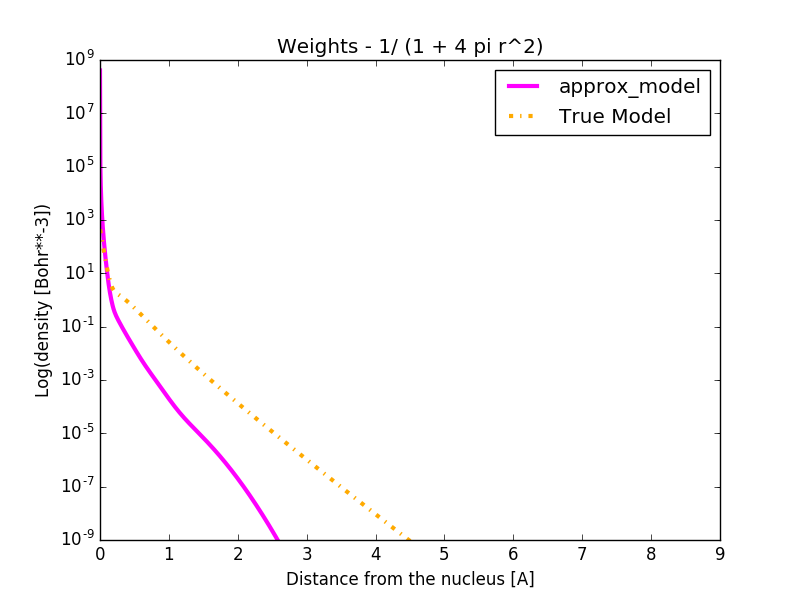
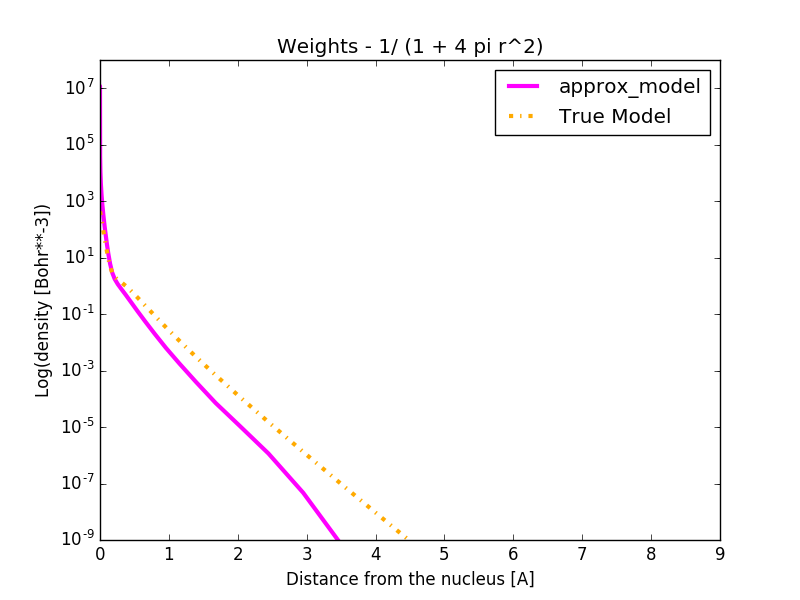
Starting New Lagerange

diff --git a/fitting/fit/positive_mbis.py b/fitting/fit/positive_mbis.py
@@ -1,0 +1,131 @@
+from __future__ import division
+import numpy as np
+
+
+def get_objective_function( electron_dens, grid_obj, model, weights):
+    log_ratio_of_models = np.log(electron_dens / np.ma.asarray(model))**2.
+    return grid_obj.integrate(electron_dens * weights * log_ratio_of_models)
+
+
+def integrate_model_with_four_pi(grid_obj, model):
+    return grid_obj.integrate(model)
+
+
+def goodness_of_fit_grid_squared(electron_dens, grid_obj, model):
+    return grid_obj.integrate(np.abs(model - np.ravel(electron_dens))) / (4 * np.pi)
+
+
+def goodness_of_fit(electron_dens, grid_obj, model):
+    return grid_obj.integrate(np.abs(model - np.ravel(electron_dens)) / grid_obj.radii**2.) / (
+    4 * np.pi)
+
+
+def lagrange_multiplier(electron_dens, model, radial_grid, atomic_number, weights=1.):
+    ratio = np.ma.asarray(electron_dens) / np.ma.asarray(model)
+    log_ratio = np.log(ratio)
+    integrand = weights * electron_dens * log_ratio
+    integrand = np.ma.filled(integrand, 0.)
+    return 2. * radial_grid.integrate(integrand) / atomic_number
+
+
+def get_normalized_gaussian_density(coeff_arr, exp_arr, radii):
+    radii = np.reshape(radii, (len(radii), 1.))
+    exponential = np.exp(-exp_arr * np.power(radii, 2.))
+    assert exponential.shape == (len(radii), len(exp_arr))
+
+    normalized_exps = (exp_arr / np.pi) ** (3. / 2.)
+    normalized_coeffs = coeff_arr * normalized_exps
+
+    assert normalized_coeffs.ndim == 1.
+    normalized_gaussian_density = np.dot(exponential, normalized_coeffs)
+    index_where_zero_occurs = np.where(normalized_gaussian_density == 0.)
+    if len(index_where_zero_occurs[0]) != 0:
+        normalized_gaussian_density[index_where_zero_occurs] = \
+            normalized_gaussian_density[index_where_zero_occurs[0][0] - 1]
+    return normalized_gaussian_density
+
+def update_coeffs(coeff_arr, exp_arr,  electron_dens,radial_obj,atomic_number, weights=1):
+    model = get_normalized_gaussian_density(coeff_arr, exp_arr, radial_obj.radii)
+    lagrange = lagrange_multiplier(electron_dens, model, radial_obj, atomic_number, weights=weights)
+    print(lagrange)
+    masked_ed = np.ma.asarray(electron_dens)
+    ratio = masked_ed / model
+    log_ratio = np.log(ratio)
+    pre_integrand = log_ratio * ratio * masked_ed
+    pre_integrand = np.ma.filled(pre_integrand, 0.)
+    new_coeff = coeff_arr.copy()
+    for i, c in enumerate(coeff_arr):
+        post_inte = pre_integrand * np.ma.asarray(np.exp(-exp_arr[i] * radial_obj.radii**2.))
+        new_coeff[i] *= 2. * radial_obj.integrate(post_inte * weights / model)
+        new_coeff[i] *= (exp_arr[i] / np.pi)**(3. / 2.) / lagrange
+
+    print(get_objective_function(electron_dens, radial_obj, model, weights), np.sum(new_coeff))
+    return new_coeff
+
+
+def optimize_using_slsqp(parameters):
+    from scipy.optimize import minimize
+    def constraint(x, *args):
+        leng = len(x) // 2
+        return np.sum(x[0:leng]) - self.atomic_number
+
+    cons = (  # {'type':'eq','fun':integration_constraint},
+        {'type': 'eq', 'fun': constraint})
+    bounds = np.array([(0.0, np.inf) for x in range(0, len(parameters))], dtype=np.float64)
+    f_min_slsqp = minimize(get_objective_function(), x0=parameters, method="SLSQP",
+                           bounds=bounds, constraints=cons,
+                           jac=False)
+
+    parameters = f_min_slsqp['x']
+    print(f_min_slsqp)
+    return parameters
+
+if __name__ == "__main__":
+    ATOMIC_NUMBER = 9
+    ELEMENT_NAME = "f"
+    USE_HORTON = False
+    USE_FILLED_VALUES_TO_ZERO = True
+    THRESHOLD_COEFF = 1e-2
+    THRESHOLD_EXPS = 40
+    import os
+
+    current_directory = os.path.dirname(os.path.abspath(__file__))[:-3]
+    file_path = current_directory + "data/examples//" + ELEMENT_NAME
+
+
+
+
+    NUMB_OF_CORE_POINTS = 400;
+    NUMB_OF_DIFFUSE_POINTS = 500
+    from fitting.density.radial_grid import Radial_Grid
+    from fitting.density.atomic_slater_density import Atomic_Density
+
+    radial_grid = Radial_Grid(ATOMIC_NUMBER, NUMB_OF_CORE_POINTS, NUMB_OF_DIFFUSE_POINTS, [50, 75, 100],
+                              filled=USE_FILLED_VALUES_TO_ZERO)
+
+
+
+
+    from fitting.density import Atomic_Density
+    atomic_density = Atomic_Density(file_path, radial_grid.radii)
+    from fitting.fit.GaussianBasisSet import GaussianTotalBasisSet
+
+    from fitting.fit.model import Fitting
+    atomic_gaussian = GaussianTotalBasisSet(ELEMENT_NAME, np.reshape(radial_grid.radii,
+                                                                    (len(radial_grid.radii), 1)), file_path)
+    weights = 1 / (np.pi * radial_grid.radii**2.) #np.exp(-0.01 * radial_grid.radii**2.)
+
+    fitting_obj = Fitting(atomic_gaussian)
+    #mbis = TotalMBIS(ELEMENT_NAME, ATOMIC_NUMBER, radial_grid, atomic_density.electron_density, weights=weights)
+
+    exps = atomic_gaussian.UGBS_s_exponents[:-3]
+    coeffs = fitting_obj.optimize_using_nnls(atomic_gaussian.create_cofactor_matrix(exps))
+    print(exps)
+    coeffs[coeffs == 0.] = 1e-6
+
+    model = get_normalized_gaussian_density(coeffs, exps, radial_grid.radii)
+    print(lagrange_multiplier(atomic_density.electron_density, model, radial_grid, ATOMIC_NUMBER))
+
+    for x in range(0, 50):
+        coeffs = update_coeffs(coeffs, exps, atomic_density.atomic_density(), radial_grid, ATOMIC_NUMBER)
+        model = get_normalized_gaussian_density(coeffs, exps, radial_grid.radii)

diff --git a/fitting/fit/mbis_total_density.py b/fitting/fit/mbis_total_density.py
@@ -15,7 +15,6 @@ class TotalMBIS(MBIS_ABC):
         assert norm_coeff_arr[0] == coeff_arr[0] * normalized_constants[0], "Instead we get %r and %r * %r" %(norm_coeff_arr[0],
                                                                                                          coeff_arr[0],
                                                                                                          normalized_constants[0])
-        assert norm_coeff_arr[5] == coeff_arr[5] * normalized_constants[5]
         return coeff_arr * normalized_constants
 
     def get_normalized_gaussian_density(self, coeff_arr, exp_arr):
@@ -281,9 +280,10 @@ class TotalMBIS(MBIS_ABC):
         bounds = np.array([(0.0, np.inf) for x in range(0, len(parameters))], dtype=np.float64)
         f_min_slsqp = minimize(self.get_obj_func_for_optimizing, x0=parameters, method="SLSQP",
                                               bounds=bounds, constraints=cons,
-                                              jac=False)
+                                              jac=False,  options={"maxiter": 100000, "disp":True})
 
         parameters = f_min_slsqp['x']
+        print(f_min_slsqp)
         return parameters
 
 
@@ -320,14 +320,14 @@ if __name__ == "__main__":
     from fitting.density import Atomic_Density
     atomic_density = Atomic_Density(file_path, radial_grid.radii)
     from fitting.fit.GaussianBasisSet import GaussianTotalBasisSet
-
+    atomic_density.electron_density /= ATOMIC_NUMBER
     from fitting.fit.model import Fitting
     atomic_gaussian = GaussianTotalBasisSet(ELEMENT_NAME, np.reshape(radial_grid.radii,
                                                                     (len(radial_grid.radii), 1)), file_path)
-    weights = 1 / (np.pi * radial_grid.radii**2.) #np.exp(-0.01 * radial_grid.radii**2.)
+    weights = None#(4. * np.pi * radial_grid.radii**1.)#1. / (1 + (4. * np.pi * radial_grid.radii ** 2.))#1. / (4. * np.pi * radial_grid.radii**0.5) #np.exp(-0.01 * radial_grid.radii**2.)
 
     fitting_obj = Fitting(atomic_gaussian)
-    mbis = TotalMBIS(ELEMENT_NAME, ATOMIC_NUMBER, radial_grid, atomic_density.electron_density, weights=weights)
+    mbis = TotalMBIS(ELEMENT_NAME, 1, radial_grid, atomic_density.electron_density, weights=weights)
 
     exps = atomic_gaussian.UGBS_s_exponents[:-3]
     coeffs = fitting_obj.optimize_using_nnls(atomic_gaussian.create_cofactor_matrix(exps))
@@ -336,12 +336,19 @@ if __name__ == "__main__":
 
     print(radial_grid.integrate(mbis.electron_density))
     print(radial_grid.integrate(mbis.get_normalized_gaussian_density(coeffs, exps)))
-    #coeffs, exps = mbis.run(1e-2, 1e-1, coeffs, exps, iprint=True)
+    coeffs, exps = mbis.run(1e-2, 1e-1, coeffs, exps, iprint=True)
+    #coeffs = np.array([500.])
+    #exps = np.array([0.05])
 
     parameters = mbis.optimize_using_slsqp(np.append(coeffs, exps))
     coeffs, exps = parameters[:len(parameters)//2], parameters[len(parameters)//2:]
     model = mbis.get_normalized_gaussian_density(coeffs, exps)
-    print(mbis.get_descriptors_of_model(model))
+    print(mbis.get_descriptors_of_model(model), np.abs(model[0] - atomic_density.electron_density[0]))
+    coeffs[coeffs == 0.] = 1e-30
+    exps[exps==0.] = 1e-30
+    import sys
+    sys.exit()
+
     coeffs, exps = mbis.run(THRESHOLD_COEFF, THRESHOLD_EXPS, coeffs, exps, iprint=True)
     #coeffs, exps = mbis.run_greedy(2. , 1e-2, 1e-1, iprint=True)
     print("Final Coeffs, Exps: ", coeffs, exps )
